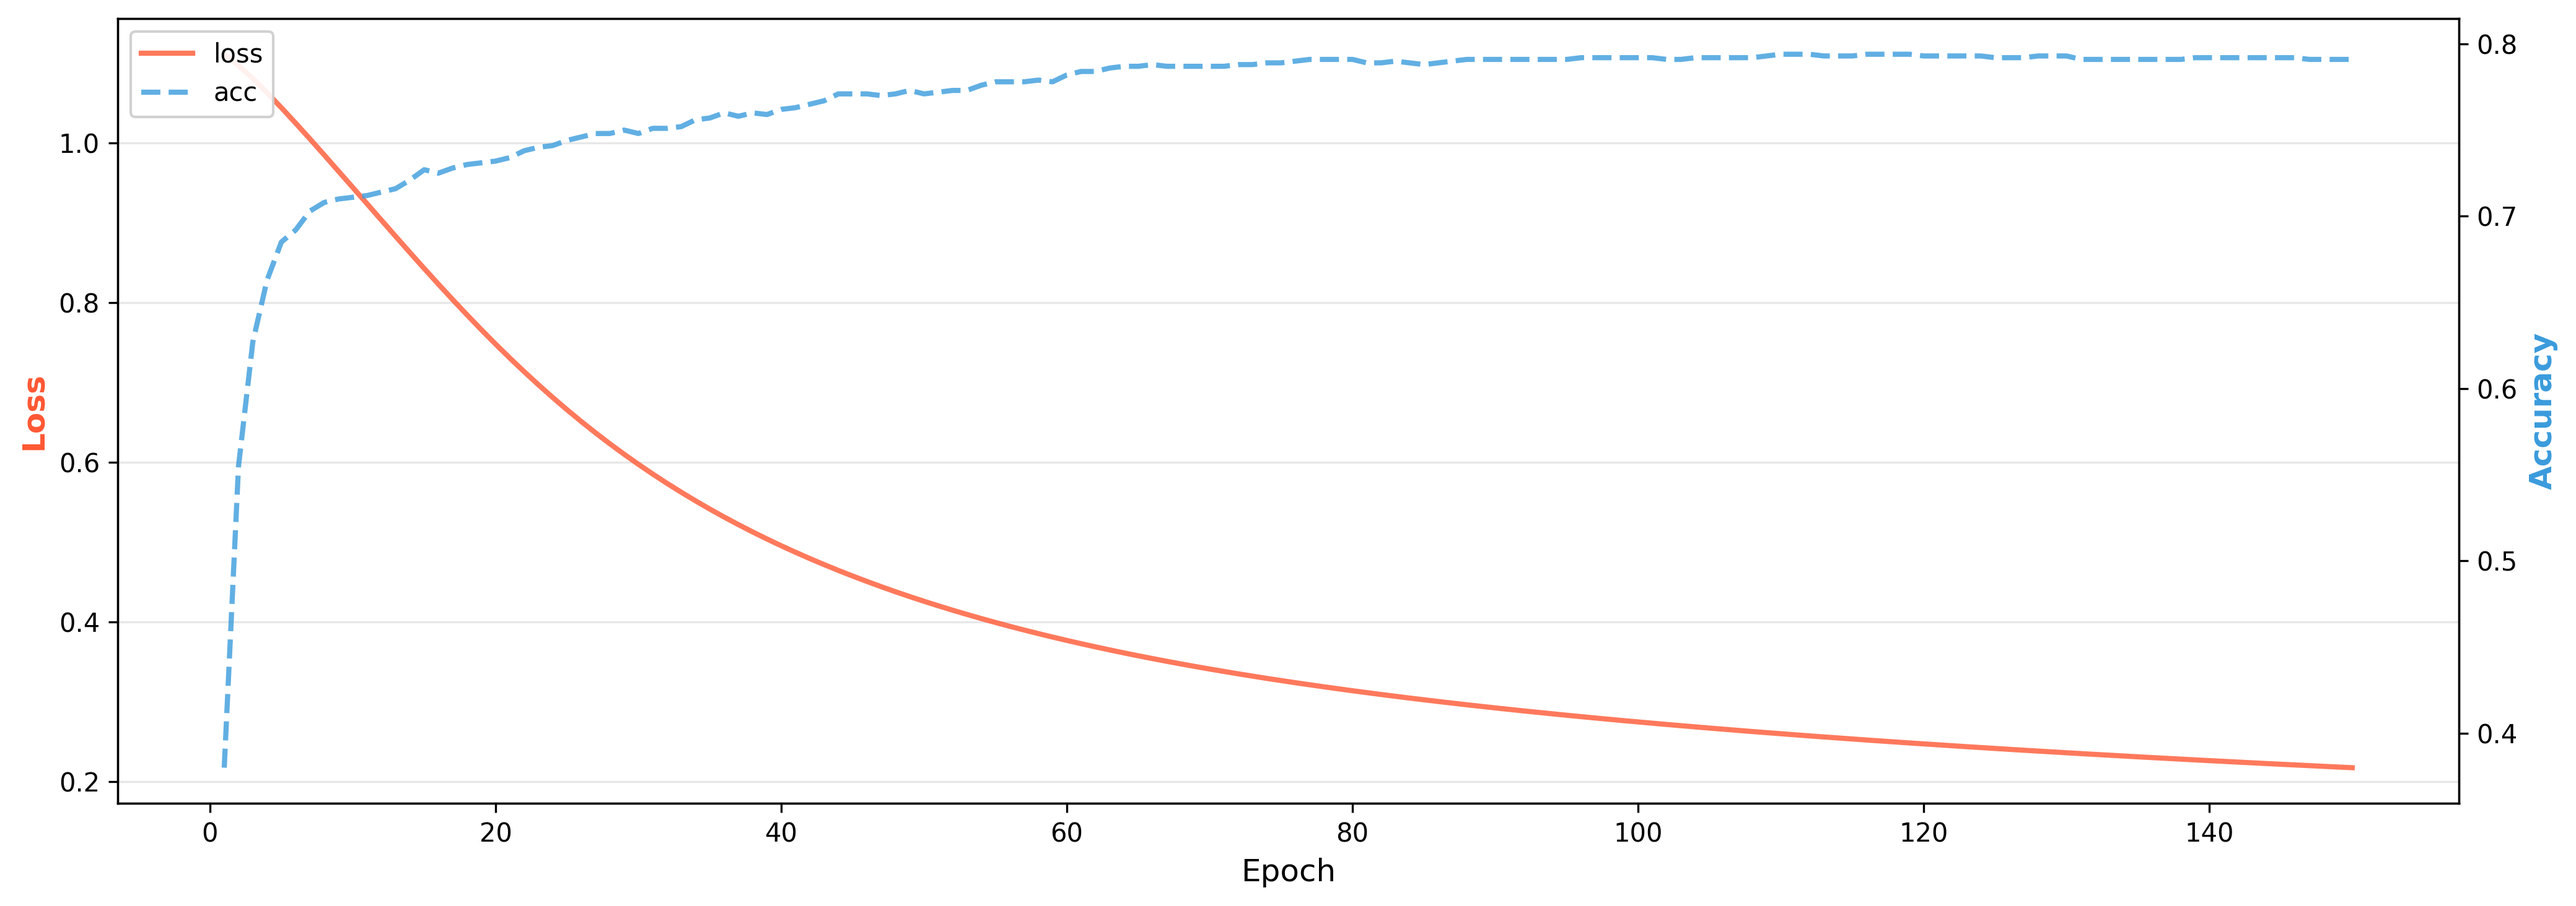
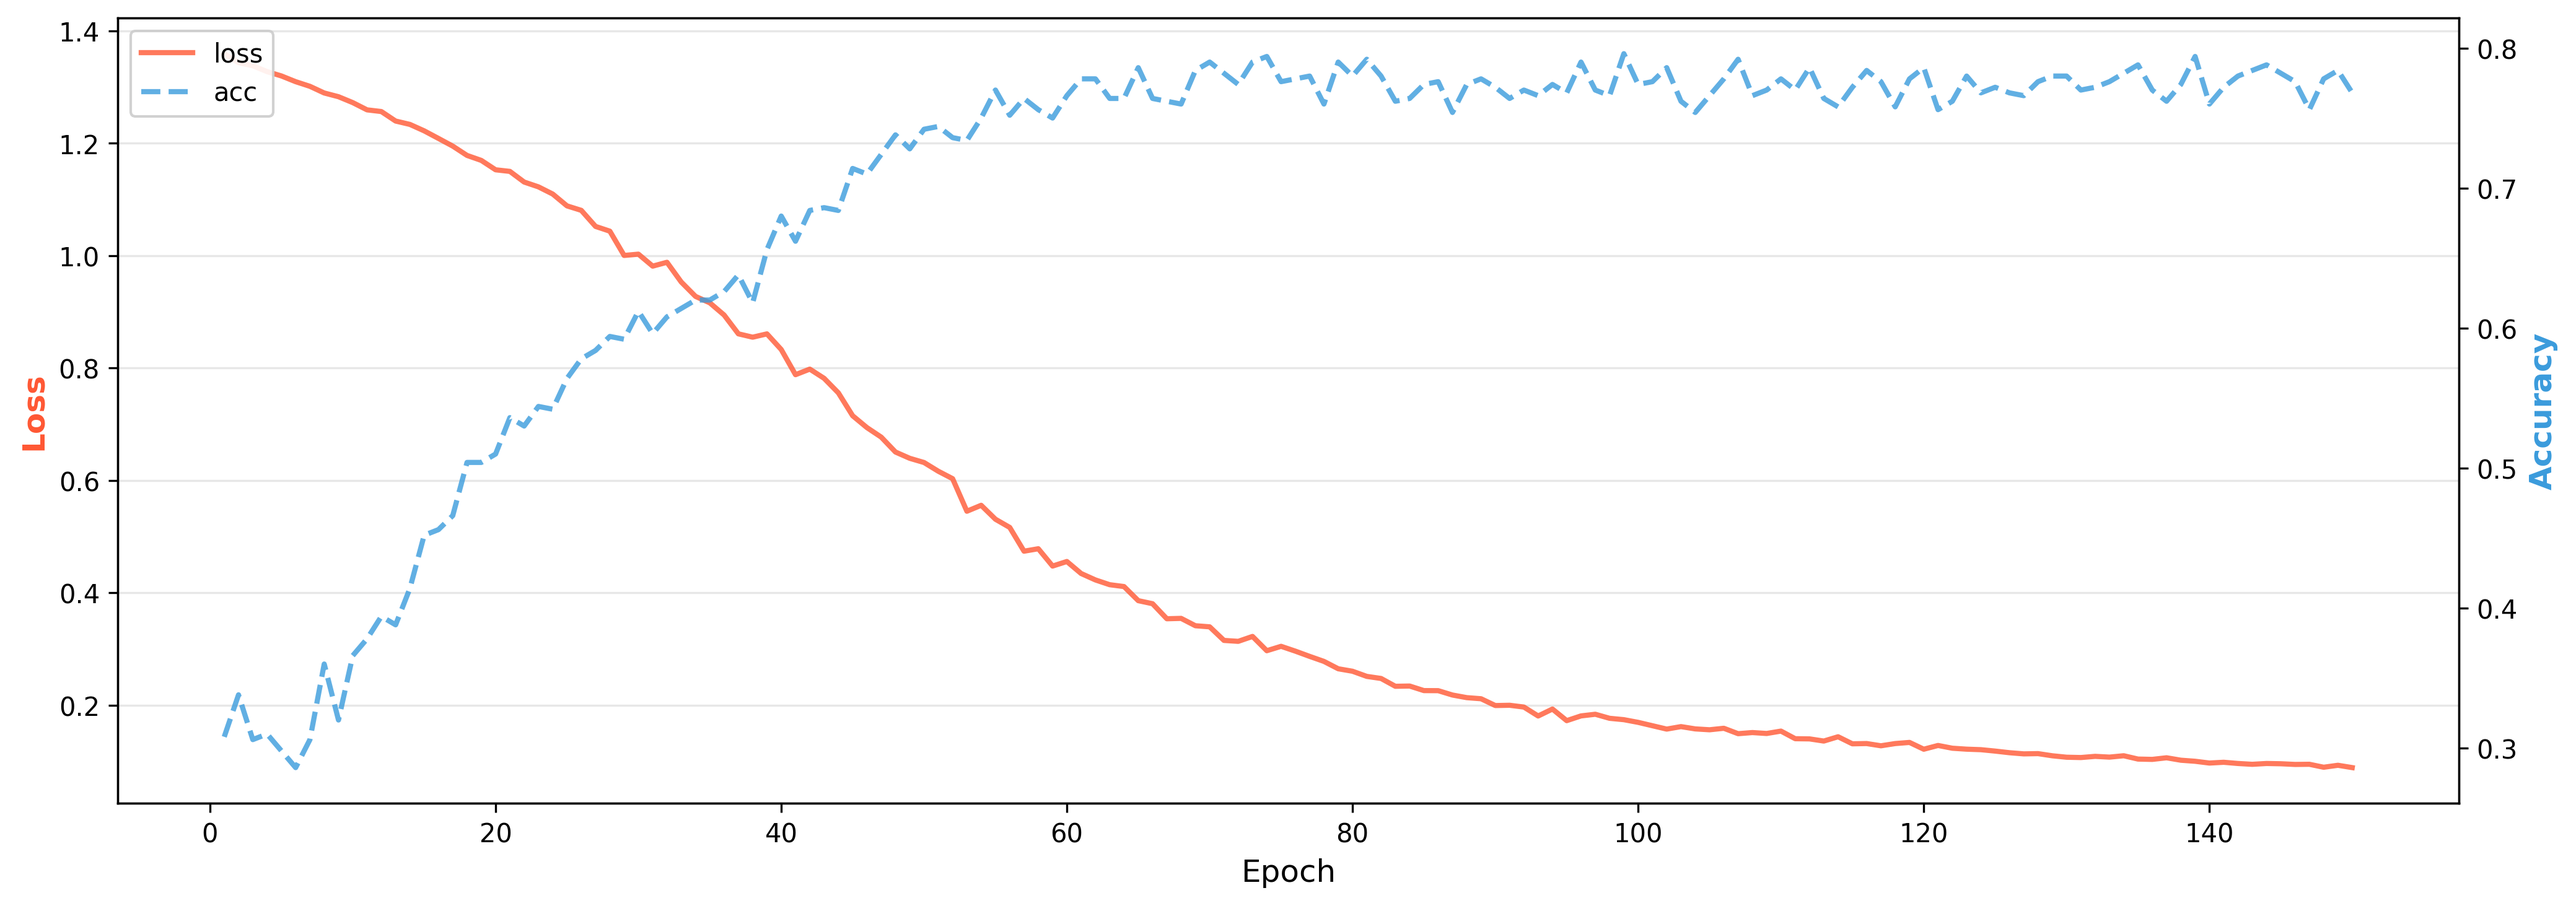
Finished

diff --git a/GCN_res_4.py b/GCN_res_4.py
@@ -42,18 +42,20 @@ adj = torch.sparse_coo_tensor(edge_index, edge_weight, (num_nodes, num_nodes))
 
 #定义一个GCN层
 class GCN_layer(nn.Module):
-    def __init__(self, in_feature, out_feature, is_dropout, is_relu): # 初始化
+    def __init__(self, in_feature, out_feature, is_dropout, is_relu, has_res = True): # 初始化
         super().__init__()
         self.weight = nn.Parameter(torch.zeros(in_feature, out_feature))
         self.dropout = nn.Dropout(0.5) if is_dropout else nn.Identity()
         self.is_relu = is_relu
         nn.init.xavier_uniform_(self.weight)
+        self.input_proj = nn.Linear(in_features=in_feature, out_features=out_feature) if has_res else None
         
 
     def forward(self, x, adj):
         y = adj @ x @ self.weight
         y = self.dropout(y)
-        return F.relu(y) if self.is_relu else y
+        output = F.relu(y) if self.is_relu else y 
+        return output + self.input_proj(x) if self.input_proj else output
 
 
 # 定义整个GCN模型
@@ -61,12 +63,16 @@ class GCN_layer(nn.Module):
 class GCN(nn.Module):
     def __init__(self, in_feature, hidden_feature, out_feature):
         super().__init__()
-        self.layer1 = GCN_layer(in_feature=in_feature , out_feature=hidden_feature, is_dropout=True,is_relu=True)
-        self.layer2 = GCN_layer(in_feature=hidden_feature, out_feature=out_feature, is_dropout=False, is_relu=False)
+        self.layer1 = GCN_layer(in_feature=in_feature , out_feature=512, is_dropout=True,is_relu=True)
+        self.layer2 = GCN_layer(in_feature=512 , out_feature=64, is_dropout=True,is_relu=True)
+        self.layer3 = GCN_layer(in_feature=64 , out_feature=hidden_feature, is_dropout=True,is_relu=True)
+        self.layer4 = GCN_layer(in_feature=hidden_feature, out_feature=out_feature, is_dropout=False, is_relu=False, has_res = False)
 
     def forward(self, x, adj): # 前向传播
         x = self.layer1(x, adj)
         x = self.layer2(x, adj)
+        x = self.layer3(x, adj)
+        x = self.layer4(x, adj)
         return x
     
     def predict(self, x, adj): # 预测
@@ -85,15 +91,15 @@ class GCN(nn.Module):
 # 开始训练 
 model = GCN(in_feature=num_features, hidden_feature=16, out_feature=num_classes)
 model.to(device)
-optimizer = optim.Adam(model.parameters(), lr = 0.01)
-epochs = 200
+optimizer = optim.Adam(model.parameters(), lr = 0.0003)
+epochs = 500
 
 # 绘图用
 acc_history = []
 loss_history = []
 
 # 早停机制
-patience = 30
+patience = 50
 best_val_acc = 0
 cnt = 0
 best_model_state = None
@@ -109,6 +115,7 @@ for epoch in range(epochs):
     optimizer.step()
 
     model.eval()
+
     acc = model.accuracy_fn(logits, y, val_mask)
     acc_history.append(acc)
     loss_history.append(loss.item())
@@ -127,9 +134,9 @@ for epoch in range(epochs):
         cnt += 1
 
     if(epoch < 20):
-        print(f"Epoch {epoch+1} | Loss: {loss.item():.4f} | Val_acc: {acc:.4f}")
+        print(f"Epoch {epoch+1} | Loss: {loss.item():.4f} | Acc: {acc:.4f}")
     elif (epoch + 1) % 5 == 0:
-        print(f"Epoch {epoch+1} | Loss: {loss.item():.4f} | Val_acc: {acc:.4f}")
+        print(f"Epoch {epoch+1} | Loss: {loss.item():.4f} | Acc: {acc:.4f}")
 
 model.load_state_dict(best_model_state)
 model.eval()

diff --git a/GCN_res_2.py b/GCN_res_2.py
@@ -42,18 +42,20 @@ adj = torch.sparse_coo_tensor(edge_index, edge_weight, (num_nodes, num_nodes))
 
 #定义一个GCN层
 class GCN_layer(nn.Module):
-    def __init__(self, in_feature, out_feature, is_dropout, is_relu): # 初始化
+    def __init__(self, in_feature, out_feature, is_dropout, is_relu, has_res = True): # 初始化
         super().__init__()
         self.weight = nn.Parameter(torch.zeros(in_feature, out_feature))
         self.dropout = nn.Dropout(0.5) if is_dropout else nn.Identity()
         self.is_relu = is_relu
         nn.init.xavier_uniform_(self.weight)
+        self.input_proj = nn.Linear(in_features=in_feature, out_features=out_feature) if has_res else None
         
 
     def forward(self, x, adj):
         y = adj @ x @ self.weight
         y = self.dropout(y)
-        return F.relu(y) if self.is_relu else y
+        output = F.relu(y) if self.is_relu else y 
+        return output + self.input_proj(x) if self.input_proj else output
 
 
 # 定义整个GCN模型
@@ -62,7 +64,7 @@ class GCN(nn.Module):
     def __init__(self, in_feature, hidden_feature, out_feature):
         super().__init__()
         self.layer1 = GCN_layer(in_feature=in_feature , out_feature=hidden_feature, is_dropout=True,is_relu=True)
-        self.layer2 = GCN_layer(in_feature=hidden_feature, out_feature=out_feature, is_dropout=False, is_relu=False)
+        self.layer2 = GCN_layer(in_feature=hidden_feature, out_feature=out_feature, is_dropout=False, is_relu=False, has_res = False)
 
     def forward(self, x, adj): # 前向传播
         x = self.layer1(x, adj)
@@ -85,8 +87,8 @@ class GCN(nn.Module):
 # 开始训练 
 model = GCN(in_feature=num_features, hidden_feature=16, out_feature=num_classes)
 model.to(device)
-optimizer = optim.Adam(model.parameters(), lr = 0.01)
-epochs = 200
+optimizer = optim.Adam(model.parameters(), lr = 0.0005)
+epochs = 500
 
 # 绘图用
 acc_history = []
@@ -127,9 +129,9 @@ for epoch in range(epochs):
         cnt += 1
 
     if(epoch < 20):
-        print(f"Epoch {epoch+1} | Loss: {loss.item():.4f} | Val_acc: {acc:.4f}")
+        print(f"Epoch {epoch+1} | Loss: {loss.item():.4f} | Acc: {acc:.4f}")
     elif (epoch + 1) % 5 == 0:
-        print(f"Epoch {epoch+1} | Loss: {loss.item():.4f} | Val_acc: {acc:.4f}")
+        print(f"Epoch {epoch+1} | Loss: {loss.item():.4f} | Acc: {acc:.4f}")
 
 model.load_state_dict(best_model_state)
 model.eval()
@@ -137,6 +139,7 @@ with torch.no_grad():
     logits = model(x, adj)
     test_acc = model.accuracy_fn(logits, y, test_mask)
     print(f"Best_epoch = {best_epoch} | Final_Acc = {test_acc:.4f}")
+
 
 idx = [i for i in range(1,real_epochs+1)]
 

diff --git a/README.md b/README.md
@@ -2,7 +2,7 @@
 
 GCN_basic.py 对应标准模型
 
-GCN_res.py 对应残差连接模型
+GCN_res_n.py 对应n层的残差连接模型
 
 版本:
 
